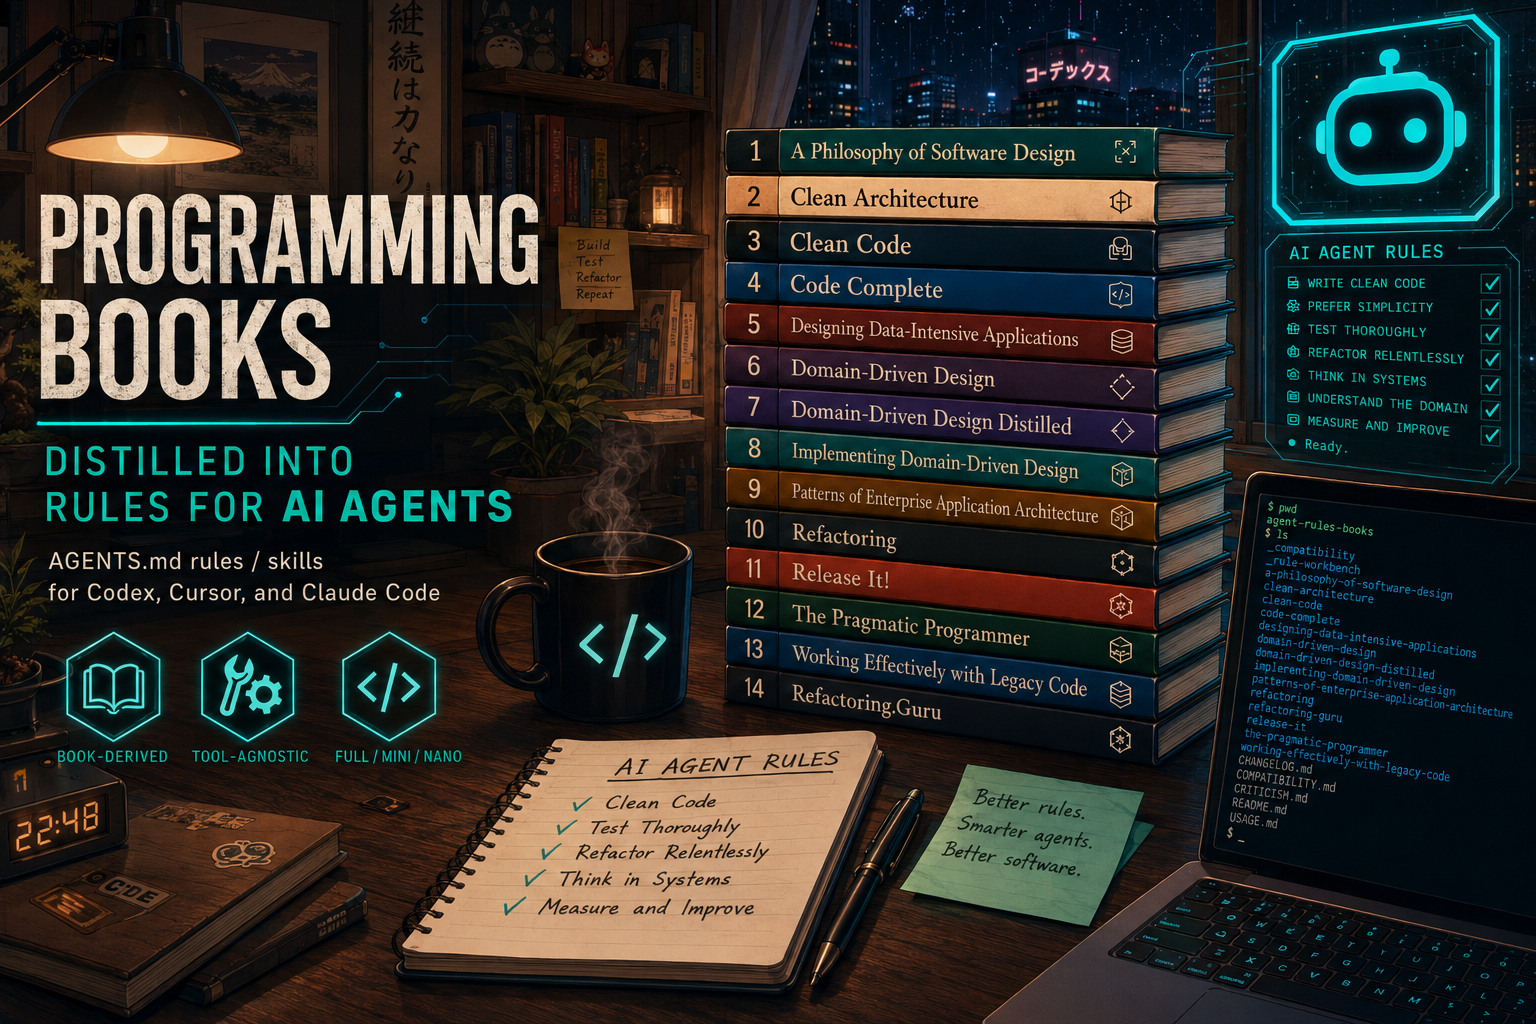
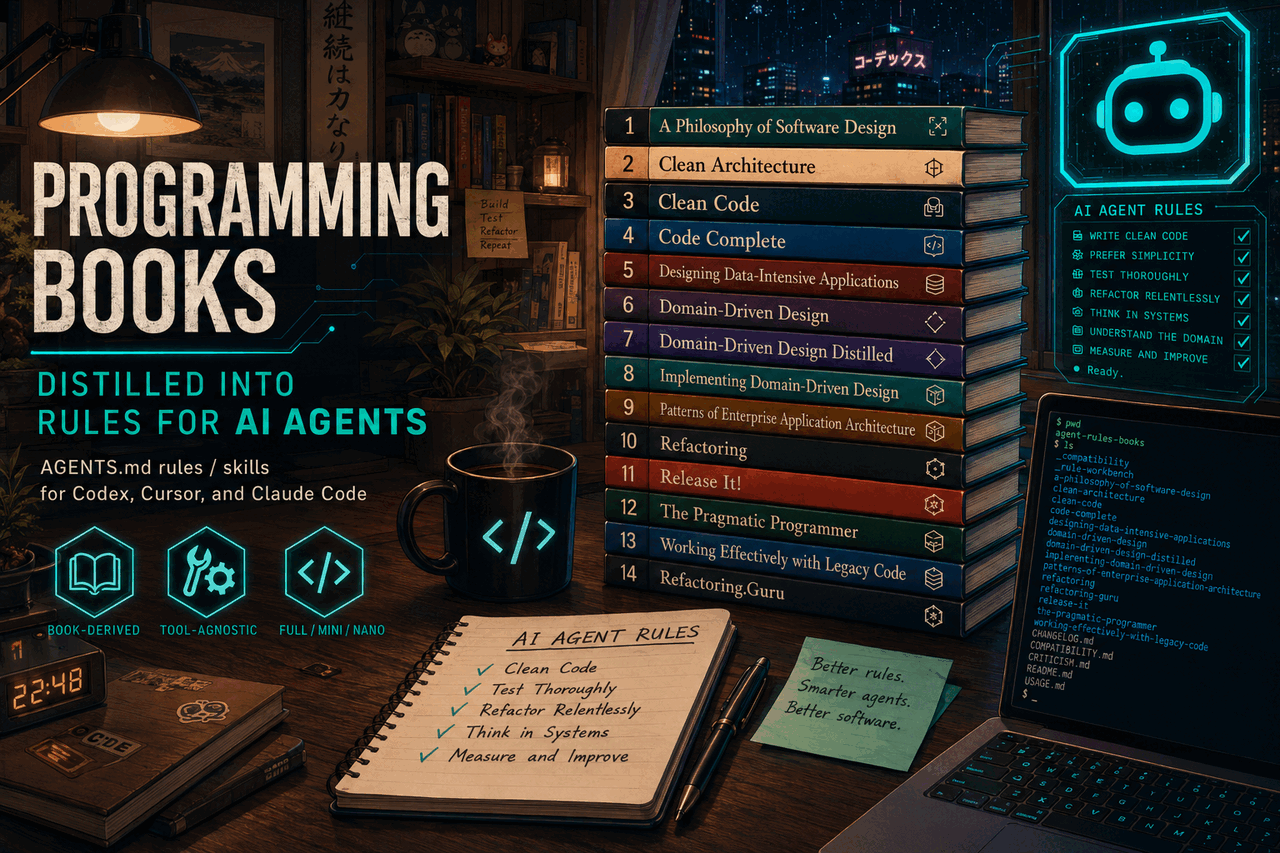
Polish documentation and site presentation

Changed region(s): [[0.6875, 0.061, 0.7188, 0.0914], [0.5312, 0.1219, 0.5625, 0.1524]]

diff --git a/docs/compatibility/index.html b/docs/compatibility/index.html
@@ -25,9 +25,9 @@
       </section>
       <section class="section">
         <div class="shell grid">
-          <article class="card"><h3><span class="verdict good">✓</span> Complementary</h3><p>Can be combined as equal active guidance without one book arbitrating the other. Count: <strong>78</strong>.</p></article>
-          <article class="card"><h3><span class="verdict overlap">↻</span> Overlap</h3><p>Choose one. They apply similar pressure or compete for the same decision layer. Count: <strong>11</strong>.</p></article>
-          <article class="card"><h3><span class="verdict conflict">×</span> Conflict</h3><p>Do not load together as equal active rule sets. Pick the one that matches the project model. Count: <strong>2</strong>.</p></article>
+          <article class="card"><h3><span class="verdict good" data-tooltip="complementary" aria-label="complementary">✓</span> Complementary</h3><p>Can be combined as equal active guidance without one book arbitrating the other. Count: <strong>78</strong>.</p></article>
+          <article class="card"><h3><span class="verdict overlap" data-tooltip="overlap" aria-label="overlap">↻</span> Overlap</h3><p>Choose one. They apply similar pressure or compete for the same decision layer. Count: <strong>11</strong>.</p></article>
+          <article class="card"><h3><span class="verdict conflict" data-tooltip="conflict" aria-label="conflict">×</span> Conflict</h3><p>Do not load together as equal active rule sets. Pick the one that matches the project model. Count: <strong>2</strong>.</p></article>
         </div>
       </section>
       <section class="section">
@@ -57,31 +57,47 @@
             </div>
           </div>
           <div class="legend-row" aria-label="Compatibility legend">
-            <span><span class="verdict good">✓</span> complementary</span>
-            <span><span class="verdict overlap">↻</span> overlap, choose one</span>
-            <span><span class="verdict conflict">×</span> conflict</span>
-            <span><span class="verdict na">N/A</span> same rule set</span>
+            <span><span class="verdict good" data-tooltip="complementary" aria-label="complementary">✓</span> complementary</span>
+            <span><span class="verdict overlap" data-tooltip="overlap" aria-label="overlap">↻</span> overlap, choose one</span>
+            <span><span class="verdict conflict" data-tooltip="conflict" aria-label="conflict">×</span> conflict</span>
+            <span><span class="verdict na" data-tooltip="same rule set" aria-label="same rule set">N/A</span> same rule set</span>
           </div>
           <div class="table-wrap matrix-wrap">
             <table class="matrix" aria-label="Book rule compatibility matrix">
               <thead>
-                <tr><th>Book</th><th>APoSD</th><th>CleanA</th><th>CleanC</th><th>CodeC</th><th>DDIA</th><th>DDD</th><th>DDD Dist</th><th>IDDD</th><th>PoEAA</th><th>Refactoring</th><th>Ref Guru</th><th>Release It</th><th>PragProg</th><th>WELC</th></tr>
+                <tr>
+                  <th>Book</th>
+                  <th data-tooltip="A Philosophy of Software Design">APoSD</th>
+                  <th data-tooltip="Clean Architecture">CleanA</th>
+                  <th data-tooltip="Clean Code">CleanC</th>
+                  <th data-tooltip="Code Complete">CodeC</th>
+                  <th data-tooltip="Designing Data-Intensive Applications">DDIA</th>
+                  <th data-tooltip="Domain-Driven Design">DDD</th>
+                  <th data-tooltip="Domain-Driven Design Distilled">DDD Dist</th>
+                  <th data-tooltip="Implementing Domain-Driven Design">IDDD</th>
+                  <th data-tooltip="Patterns of Enterprise Application Architecture">PoEAA</th>
+                  <th data-tooltip="Refactoring">Refactoring</th>
+                  <th data-tooltip="Refactoring.Guru">Ref Guru</th>
+                  <th data-tooltip="Release It!">Release It</th>
+                  <th data-tooltip="The Pragmatic Programmer">PragProg</th>
+                  <th data-tooltip="Working Effectively with Legacy Code">WELC</th>
+                </tr>
               </thead>
               <tbody>
-                <tr><td>APoSD</td><td><span class="verdict na">N/A</span></td><td><span class="verdict good">✓</span></td><td><span class="verdict overlap">↻</span></td><td><span class="verdict good">✓</span></td><td><span class="verdict good">✓</span></td><td><span class="verdict good">✓</span></td><td><span class="verdict good">✓</span></td><td><span class="verdict good">✓</span></td><td><span class="verdict good">✓</span></td><td><span class="verdict good">✓</span></td><td><span class="verdict good">✓</span></td><td><span class="verdict good">✓</span></td><td><span class="verdict good">✓</span></td><td><span class="verdict good">✓</span></td></tr>
-                <tr><td>CleanA</td><td><span class="verdict good">✓</span></td><td><span class="verdict na">N/A</span></td><td><span class="verdict good">✓</span></td><td><span class="verdict good">✓</span></td><td><span class="verdict good">✓</span></td><td><span class="verdict good">✓</span></td><td><span class="verdict good">✓</span></td><td><span class="verdict overlap">↻</span></td><td><span class="verdict overlap">↻</span></td><td><span class="verdict good">✓</span></td><td><span class="verdict good">✓</span></td><td><span class="verdict good">✓</span></td><td><span class="verdict good">✓</span></td><td><span class="verdict good">✓</span></td></tr>
-                <tr><td>CleanC</td><td><span class="verdict overlap">↻</span></td><td><span class="verdict good">✓</span></td><td><span class="verdict na">N/A</span></td><td><span class="verdict overlap">↻</span></td><td><span class="verdict good">✓</span></td><td><span class="verdict good">✓</span></td><td><span class="verdict good">✓</span></td><td><span class="verdict good">✓</span></td><td><span class="verdict good">✓</span></td><td><span class="verdict good">✓</span></td><td><span class="verdict good">✓</span></td><td><span class="verdict good">✓</span></td><td><span class="verdict overlap">↻</span></td><td><span class="verdict good">✓</span></td></tr>
-                <tr><td>CodeC</td><td><span class="verdict good">✓</span></td><td><span class="verdict good">✓</span></td><td><span class="verdict overlap">↻</span></td><td><span class="verdict na">N/A</span></td><td><span class="verdict good">✓</span></td><td><span class="verdict good">✓</span></td><td><span class="verdict good">✓</span></td><td><span class="verdict good">✓</span></td><td><span class="verdict good">✓</span></td><td><span class="verdict good">✓</span></td><td><span class="verdict good">✓</span></td><td><span class="verdict good">✓</span></td><td><span class="verdict overlap">↻</span></td><td><span class="verdict good">✓</span></td></tr>
-                <tr><td>DDIA</td><td><span class="verdict good">✓</span></td><td><span class="verdict good">✓</span></td><td><span class="verdict good">✓</span></td><td><span class="verdict good">✓</span></td><td><span class="verdict na">N/A</span></td><td><span class="verdict good">✓</span></td><td><span class="verdict good">✓</span></td><td><span class="verdict good">✓</span></td><td><span class="verdict good">✓</span></td><td><span class="verdict good">✓</span></td><td><span class="verdict good">✓</span></td><td><span class="verdict good">✓</span></td><td><span class="verdict good">✓</span></td><td><span class="verdict good">✓</span></td></tr>
-                <tr><td>DDD</td><td><span class="verdict good">✓</span></td><td><span class="verdict good">✓</span></td><td><span class="verdict good">✓</span></td><td><span class="verdict good">✓</span></td><td><span class="verdict good">✓</span></td><td><span class="verdict na">N/A</span></td><td><span class="verdict overlap">↻</span></td><td><span class="verdict overlap">↻</span></td><td><span class="verdict conflict">×</span></td><td><span class="verdict good">✓</span></td><td><span class="verdict good">✓</span></td><td><span class="verdict good">✓</span></td><td><span class="verdict good">✓</span></td><td><span class="verdict good">✓</span></td></tr>
-                <tr><td>DDD Dist</td><td><span class="verdict good">✓</span></td><td><span class="verdict good">✓</span></td><td><span class="verdict good">✓</span></td><td><span class="verdict good">✓</span></td><td><span class="verdict good">✓</span></td><td><span class="verdict overlap">↻</span></td><td><span class="verdict na">N/A</span></td><td><span class="verdict overlap">↻</span></td><td><span class="verdict overlap">↻</span></td><td><span class="verdict good">✓</span></td><td><span class="verdict good">✓</span></td><td><span class="verdict good">✓</span></td><td><span class="verdict good">✓</span></td><td><span class="verdict good">✓</span></td></tr>
-                <tr><td>IDDD</td><td><span class="verdict good">✓</span></td><td><span class="verdict overlap">↻</span></td><td><span class="verdict good">✓</span></td><td><span class="verdict good">✓</span></td><td><span class="verdict good">✓</span></td><td><span class="verdict overlap">↻</span></td><td><span class="verdict overlap">↻</span></td><td><span class="verdict na">N/A</span></td><td><span class="verdict conflict">×</span></td><td><span class="verdict good">✓</span></td><td><span class="verdict good">✓</span></td><td><span class="verdict good">✓</span></td><td><span class="verdict good">✓</span></td><td><span class="verdict good">✓</span></td></tr>
-                <tr><td>PoEAA</td><td><span class="verdict good">✓</span></td><td><span class="verdict overlap">↻</span></td><td><span class="verdict good">✓</span></td><td><span class="verdict good">✓</span></td><td><span class="verdict good">✓</span></td><td><span class="verdict conflict">×</span></td><td><span class="verdict overlap">↻</span></td><td><span class="verdict conflict">×</span></td><td><span class="verdict na">N/A</span></td><td><span class="verdict good">✓</span></td><td><span class="verdict good">✓</span></td><td><span class="verdict good">✓</span></td><td><span class="verdict good">✓</span></td><td><span class="verdict good">✓</span></td></tr>
-                <tr><td>Refactoring</td><td><span class="verdict good">✓</span></td><td><span class="verdict good">✓</span></td><td><span class="verdict good">✓</span></td><td><span class="verdict good">✓</span></td><td><span class="verdict good">✓</span></td><td><span class="verdict good">✓</span></td><td><span class="verdict good">✓</span></td><td><span class="verdict good">✓</span></td><td><span class="verdict good">✓</span></td><td><span class="verdict na">N/A</span></td><td><span class="verdict overlap">↻</span></td><td><span class="verdict good">✓</span></td><td><span class="verdict good">✓</span></td><td><span class="verdict good">✓</span></td></tr>
-                <tr><td>Ref Guru</td><td><span class="verdict good">✓</span></td><td><span class="verdict good">✓</span></td><td><span class="verdict good">✓</span></td><td><span class="verdict good">✓</span></td><td><span class="verdict good">✓</span></td><td><span class="verdict good">✓</span></td><td><span class="verdict good">✓</span></td><td><span class="verdict good">✓</span></td><td><span class="verdict good">✓</span></td><td><span class="verdict overlap">↻</span></td><td><span class="verdict na">N/A</span></td><td><span class="verdict good">✓</span></td><td><span class="verdict good">✓</span></td><td><span class="verdict good">✓</span></td></tr>
-                <tr><td>Release It</td><td><span class="verdict good">✓</span></td><td><span class="verdict good">✓</span></td><td><span class="verdict good">✓</span></td><td><span class="verdict good">✓</span></td><td><span class="verdict good">✓</span></td><td><span class="verdict good">✓</span></td><td><span class="verdict good">✓</span></td><td><span class="verdict good">✓</span></td><td><span class="verdict good">✓</span></td><td><span class="verdict good">✓</span></td><td><span class="verdict good">✓</span></td><td><span class="verdict na">N/A</span></td><td><span class="verdict good">✓</span></td><td><span class="verdict good">✓</span></td></tr>
-                <tr><td>PragProg</td><td><span class="verdict good">✓</span></td><td><span class="verdict good">✓</span></td><td><span class="verdict overlap">↻</span></td><td><span class="verdict overlap">↻</span></td><td><span class="verdict good">✓</span></td><td><span class="verdict good">✓</span></td><td><span class="verdict good">✓</span></td><td><span class="verdict good">✓</span></td><td><span class="verdict good">✓</span></td><td><span class="verdict good">✓</span></td><td><span class="verdict good">✓</span></td><td><span class="verdict good">✓</span></td><td><span class="verdict na">N/A</span></td><td><span class="verdict good">✓</span></td></tr>
-                <tr><td>WELC</td><td><span class="verdict good">✓</span></td><td><span class="verdict good">✓</span></td><td><span class="verdict good">✓</span></td><td><span class="verdict good">✓</span></td><td><span class="verdict good">✓</span></td><td><span class="verdict good">✓</span></td><td><span class="verdict good">✓</span></td><td><span class="verdict good">✓</span></td><td><span class="verdict good">✓</span></td><td><span class="verdict good">✓</span></td><td><span class="verdict good">✓</span></td><td><span class="verdict good">✓</span></td><td><span class="verdict good">✓</span></td><td><span class="verdict na">N/A</span></td></tr>
+                <tr><td data-tooltip="A Philosophy of Software Design">APoSD</td><td><span class="verdict na" data-tooltip="same rule set" aria-label="same rule set">N/A</span></td><td><span class="verdict good" data-tooltip="complementary" aria-label="complementary">✓</span></td><td><span class="verdict overlap" data-tooltip="overlap" aria-label="overlap">↻</span></td><td><span class="verdict good" data-tooltip="complementary" aria-label="complementary">✓</span></td><td><span class="verdict good" data-tooltip="complementary" aria-label="complementary">✓</span></td><td><span class="verdict good" data-tooltip="complementary" aria-label="complementary">✓</span></td><td><span class="verdict good" data-tooltip="complementary" aria-label="complementary">✓</span></td><td><span class="verdict good" data-tooltip="complementary" aria-label="complementary">✓</span></td><td><span class="verdict good" data-tooltip="complementary" aria-label="complementary">✓</span></td><td><span class="verdict good" data-tooltip="complementary" aria-label="complementary">✓</span></td><td><span class="verdict good" data-tooltip="complementary" aria-label="complementary">✓</span></td><td><span class="verdict good" data-tooltip="complementary" aria-label="complementary">✓</span></td><td><span class="verdict good" data-tooltip="complementary" aria-label="complementary">✓</span></td><td><span class="verdict good" data-tooltip="complementary" aria-label="complementary">✓</span></td></tr>
+                <tr><td data-tooltip="Clean Architecture">CleanA</td><td><span class="verdict good" data-tooltip="complementary" aria-label="complementary">✓</span></td><td><span class="verdict na" data-tooltip="same rule set" aria-label="same rule set">N/A</span></td><td><span class="verdict good" data-tooltip="complementary" aria-label="complementary">✓</span></td><td><span class="verdict good" data-tooltip="complementary" aria-label="complementary">✓</span></td><td><span class="verdict good" data-tooltip="complementary" aria-label="complementary">✓</span></td><td><span class="verdict good" data-tooltip="complementary" aria-label="complementary">✓</span></td><td><span class="verdict good" data-tooltip="complementary" aria-label="complementary">✓</span></td><td><span class="verdict overlap" data-tooltip="overlap" aria-label="overlap">↻</span></td><td><span class="verdict overlap" data-tooltip="overlap" aria-label="overlap">↻</span></td><td><span class="verdict good" data-tooltip="complementary" aria-label="complementary">✓</span></td><td><span class="verdict good" data-tooltip="complementary" aria-label="complementary">✓</span></td><td><span class="verdict good" data-tooltip="complementary" aria-label="complementary">✓</span></td><td><span class="verdict good" data-tooltip="complementary" aria-label="complementary">✓</span></td><td><span class="verdict good" data-tooltip="complementary" aria-label="complementary">✓</span></td></tr>
+                <tr><td data-tooltip="Clean Code">CleanC</td><td><span class="verdict overlap" data-tooltip="overlap" aria-label="overlap">↻</span></td><td><span class="verdict good" data-tooltip="complementary" aria-label="complementary">✓</span></td><td><span class="verdict na" data-tooltip="same rule set" aria-label="same rule set">N/A</span></td><td><span class="verdict overlap" data-tooltip="overlap" aria-label="overlap">↻</span></td><td><span class="verdict good" data-tooltip="complementary" aria-label="complementary">✓</span></td><td><span class="verdict good" data-tooltip="complementary" aria-label="complementary">✓</span></td><td><span class="verdict good" data-tooltip="complementary" aria-label="complementary">✓</span></td><td><span class="verdict good" data-tooltip="complementary" aria-label="complementary">✓</span></td><td><span class="verdict good" data-tooltip="complementary" aria-label="complementary">✓</span></td><td><span class="verdict good" data-tooltip="complementary" aria-label="complementary">✓</span></td><td><span class="verdict good" data-tooltip="complementary" aria-label="complementary">✓</span></td><td><span class="verdict good" data-tooltip="complementary" aria-label="complementary">✓</span></td><td><span class="verdict overlap" data-tooltip="overlap" aria-label="overlap">↻</span></td><td><span class="verdict good" data-tooltip="complementary" aria-label="complementary">✓</span></td></tr>
+                <tr><td data-tooltip="Code Complete">CodeC</td><td><span class="verdict good" data-tooltip="complementary" aria-label="complementary">✓</span></td><td><span class="verdict good" data-tooltip="complementary" aria-label="complementary">✓</span></td><td><span class="verdict overlap" data-tooltip="overlap" aria-label="overlap">↻</span></td><td><span class="verdict na" data-tooltip="same rule set" aria-label="same rule set">N/A</span></td><td><span class="verdict good" data-tooltip="complementary" aria-label="complementary">✓</span></td><td><span class="verdict good" data-tooltip="complementary" aria-label="complementary">✓</span></td><td><span class="verdict good" data-tooltip="complementary" aria-label="complementary">✓</span></td><td><span class="verdict good" data-tooltip="complementary" aria-label="complementary">✓</span></td><td><span class="verdict good" data-tooltip="complementary" aria-label="complementary">✓</span></td><td><span class="verdict good" data-tooltip="complementary" aria-label="complementary">✓</span></td><td><span class="verdict good" data-tooltip="complementary" aria-label="complementary">✓</span></td><td><span class="verdict good" data-tooltip="complementary" aria-label="complementary">✓</span></td><td><span class="verdict overlap" data-tooltip="overlap" aria-label="overlap">↻</span></td><td><span class="verdict good" data-tooltip="complementary" aria-label="complementary">✓</span></td></tr>
+                <tr><td data-tooltip="Designing Data-Intensive Applications">DDIA</td><td><span class="verdict good" data-tooltip="complementary" aria-label="complementary">✓</span></td><td><span class="verdict good" data-tooltip="complementary" aria-label="complementary">✓</span></td><td><span class="verdict good" data-tooltip="complementary" aria-label="complementary">✓</span></td><td><span class="verdict good" data-tooltip="complementary" aria-label="complementary">✓</span></td><td><span class="verdict na" data-tooltip="same rule set" aria-label="same rule set">N/A</span></td><td><span class="verdict good" data-tooltip="complementary" aria-label="complementary">✓</span></td><td><span class="verdict good" data-tooltip="complementary" aria-label="complementary">✓</span></td><td><span class="verdict good" data-tooltip="complementary" aria-label="complementary">✓</span></td><td><span class="verdict good" data-tooltip="complementary" aria-label="complementary">✓</span></td><td><span class="verdict good" data-tooltip="complementary" aria-label="complementary">✓</span></td><td><span class="verdict good" data-tooltip="complementary" aria-label="complementary">✓</span></td><td><span class="verdict good" data-tooltip="complementary" aria-label="complementary">✓</span></td><td><span class="verdict good" data-tooltip="complementary" aria-label="complementary">✓</span></td><td><span class="verdict good" data-tooltip="complementary" aria-label="complementary">✓</span></td></tr>
+                <tr><td data-tooltip="Domain-Driven Design">DDD</td><td><span class="verdict good" data-tooltip="complementary" aria-label="complementary">✓</span></td><td><span class="verdict good" data-tooltip="complementary" aria-label="complementary">✓</span></td><td><span class="verdict good" data-tooltip="complementary" aria-label="complementary">✓</span></td><td><span class="verdict good" data-tooltip="complementary" aria-label="complementary">✓</span></td><td><span class="verdict good" data-tooltip="complementary" aria-label="complementary">✓</span></td><td><span class="verdict na" data-tooltip="same rule set" aria-label="same rule set">N/A</span></td><td><span class="verdict overlap" data-tooltip="overlap" aria-label="overlap">↻</span></td><td><span class="verdict overlap" data-tooltip="overlap" aria-label="overlap">↻</span></td><td><span class="verdict conflict" data-tooltip="conflict" aria-label="conflict">×</span></td><td><span class="verdict good" data-tooltip="complementary" aria-label="complementary">✓</span></td><td><span class="verdict good" data-tooltip="complementary" aria-label="complementary">✓</span></td><td><span class="verdict good" data-tooltip="complementary" aria-label="complementary">✓</span></td><td><span class="verdict good" data-tooltip="complementary" aria-label="complementary">✓</span></td><td><span class="verdict good" data-tooltip="complementary" aria-label="complementary">✓</span></td></tr>
+                <tr><td data-tooltip="Domain-Driven Design Distilled">DDD Dist</td><td><span class="verdict good" data-tooltip="complementary" aria-label="complementary">✓</span></td><td><span class="verdict good" data-tooltip="complementary" aria-label="complementary">✓</span></td><td><span class="verdict good" data-tooltip="complementary" aria-label="complementary">✓</span></td><td><span class="verdict good" data-tooltip="complementary" aria-label="complementary">✓</span></td><td><span class="verdict good" data-tooltip="complementary" aria-label="complementary">✓</span></td><td><span class="verdict overlap" data-tooltip="overlap" aria-label="overlap">↻</span></td><td><span class="verdict na" data-tooltip="same rule set" aria-label="same rule set">N/A</span></td><td><span class="verdict overlap" data-tooltip="overlap" aria-label="overlap">↻</span></td><td><span class="verdict overlap" data-tooltip="overlap" aria-label="overlap">↻</span></td><td><span class="verdict good" data-tooltip="complementary" aria-label="complementary">✓</span></td><td><span class="verdict good" data-tooltip="complementary" aria-label="complementary">✓</span></td><td><span class="verdict good" data-tooltip="complementary" aria-label="complementary">✓</span></td><td><span class="verdict good" data-tooltip="complementary" aria-label="complementary">✓</span></td><td><span class="verdict good" data-tooltip="complementary" aria-label="complementary">✓</span></td></tr>
+                <tr><td data-tooltip="Implementing Domain-Driven Design">IDDD</td><td><span class="verdict good" data-tooltip="complementary" aria-label="complementary">✓</span></td><td><span class="verdict overlap" data-tooltip="overlap" aria-label="overlap">↻</span></td><td><span class="verdict good" data-tooltip="complementary" aria-label="complementary">✓</span></td><td><span class="verdict good" data-tooltip="complementary" aria-label="complementary">✓</span></td><td><span class="verdict good" data-tooltip="complementary" aria-label="complementary">✓</span></td><td><span class="verdict overlap" data-tooltip="overlap" aria-label="overlap">↻</span></td><td><span class="verdict overlap" data-tooltip="overlap" aria-label="overlap">↻</span></td><td><span class="verdict na" data-tooltip="same rule set" aria-label="same rule set">N/A</span></td><td><span class="verdict conflict" data-tooltip="conflict" aria-label="conflict">×</span></td><td><span class="verdict good" data-tooltip="complementary" aria-label="complementary">✓</span></td><td><span class="verdict good" data-tooltip="complementary" aria-label="complementary">✓</span></td><td><span class="verdict good" data-tooltip="complementary" aria-label="complementary">✓</span></td><td><span class="verdict good" data-tooltip="complementary" aria-label="complementary">✓</span></td><td><span class="verdict good" data-tooltip="complementary" aria-label="complementary">✓</span></td></tr>
+                <tr><td data-tooltip="Patterns of Enterprise Application Architecture">PoEAA</td><td><span class="verdict good" data-tooltip="complementary" aria-label="complementary">✓</span></td><td><span class="verdict overlap" data-tooltip="overlap" aria-label="overlap">↻</span></td><td><span class="verdict good" data-tooltip="complementary" aria-label="complementary">✓</span></td><td><span class="verdict good" data-tooltip="complementary" aria-label="complementary">✓</span></td><td><span class="verdict good" data-tooltip="complementary" aria-label="complementary">✓</span></td><td><span class="verdict conflict" data-tooltip="conflict" aria-label="conflict">×</span></td><td><span class="verdict overlap" data-tooltip="overlap" aria-label="overlap">↻</span></td><td><span class="verdict conflict" data-tooltip="conflict" aria-label="conflict">×</span></td><td><span class="verdict na" data-tooltip="same rule set" aria-label="same rule set">N/A</span></td><td><span class="verdict good" data-tooltip="complementary" aria-label="complementary">✓</span></td><td><span class="verdict good" data-tooltip="complementary" aria-label="complementary">✓</span></td><td><span class="verdict good" data-tooltip="complementary" aria-label="complementary">✓</span></td><td><span class="verdict good" data-tooltip="complementary" aria-label="complementary">✓</span></td><td><span class="verdict good" data-tooltip="complementary" aria-label="complementary">✓</span></td></tr>
+                <tr><td data-tooltip="Refactoring">Refactoring</td><td><span class="verdict good" data-tooltip="complementary" aria-label="complementary">✓</span></td><td><span class="verdict good" data-tooltip="complementary" aria-label="complementary">✓</span></td><td><span class="verdict good" data-tooltip="complementary" aria-label="complementary">✓</span></td><td><span class="verdict good" data-tooltip="complementary" aria-label="complementary">✓</span></td><td><span class="verdict good" data-tooltip="complementary" aria-label="complementary">✓</span></td><td><span class="verdict good" data-tooltip="complementary" aria-label="complementary">✓</span></td><td><span class="verdict good" data-tooltip="complementary" aria-label="complementary">✓</span></td><td><span class="verdict good" data-tooltip="complementary" aria-label="complementary">✓</span></td><td><span class="verdict good" data-tooltip="complementary" aria-label="complementary">✓</span></td><td><span class="verdict na" data-tooltip="same rule set" aria-label="same rule set">N/A</span></td><td><span class="verdict overlap" data-tooltip="overlap" aria-label="overlap">↻</span></td><td><span class="verdict good" data-tooltip="complementary" aria-label="complementary">✓</span></td><td><span class="verdict good" data-tooltip="complementary" aria-label="complementary">✓</span></td><td><span class="verdict good" data-tooltip="complementary" aria-label="complementary">✓</span></td></tr>
+                <tr><td data-tooltip="Refactoring.Guru">Ref Guru</td><td><span class="verdict good" data-tooltip="complementary" aria-label="complementary">✓</span></td><td><span class="verdict good" data-tooltip="complementary" aria-label="complementary">✓</span></td><td><span class="verdict good" data-tooltip="complementary" aria-label="complementary">✓</span></td><td><span class="verdict good" data-tooltip="complementary" aria-label="complementary">✓</span></td><td><span class="verdict good" data-tooltip="complementary" aria-label="complementary">✓</span></td><td><span class="verdict good" data-tooltip="complementary" aria-label="complementary">✓</span></td><td><span class="verdict good" data-tooltip="complementary" aria-label="complementary">✓</span></td><td><span class="verdict good" data-tooltip="complementary" aria-label="complementary">✓</span></td><td><span class="verdict good" data-tooltip="complementary" aria-label="complementary">✓</span></td><td><span class="verdict overlap" data-tooltip="overlap" aria-label="overlap">↻</span></td><td><span class="verdict na" data-tooltip="same rule set" aria-label="same rule set">N/A</span></td><td><span class="verdict good" data-tooltip="complementary" aria-label="complementary">✓</span></td><td><span class="verdict good" data-tooltip="complementary" aria-label="complementary">✓</span></td><td><span class="verdict good" data-tooltip="complementary" aria-label="complementary">✓</span></td></tr>
+                <tr><td data-tooltip="Release It!">Release It</td><td><span class="verdict good" data-tooltip="complementary" aria-label="complementary">✓</span></td><td><span class="verdict good" data-tooltip="complementary" aria-label="complementary">✓</span></td><td><span class="verdict good" data-tooltip="complementary" aria-label="complementary">✓</span></td><td><span class="verdict good" data-tooltip="complementary" aria-label="complementary">✓</span></td><td><span class="verdict good" data-tooltip="complementary" aria-label="complementary">✓</span></td><td><span class="verdict good" data-tooltip="complementary" aria-label="complementary">✓</span></td><td><span class="verdict good" data-tooltip="complementary" aria-label="complementary">✓</span></td><td><span class="verdict good" data-tooltip="complementary" aria-label="complementary">✓</span></td><td><span class="verdict good" data-tooltip="complementary" aria-label="complementary">✓</span></td><td><span class="verdict good" data-tooltip="complementary" aria-label="complementary">✓</span></td><td><span class="verdict good" data-tooltip="complementary" aria-label="complementary">✓</span></td><td><span class="verdict na" data-tooltip="same rule set" aria-label="same rule set">N/A</span></td><td><span class="verdict good" data-tooltip="complementary" aria-label="complementary">✓</span></td><td><span class="verdict good" data-tooltip="complementary" aria-label="complementary">✓</span></td></tr>
+                <tr><td data-tooltip="The Pragmatic Programmer">PragProg</td><td><span class="verdict good" data-tooltip="complementary" aria-label="complementary">✓</span></td><td><span class="verdict good" data-tooltip="complementary" aria-label="complementary">✓</span></td><td><span class="verdict overlap" data-tooltip="overlap" aria-label="overlap">↻</span></td><td><span class="verdict overlap" data-tooltip="overlap" aria-label="overlap">↻</span></td><td><span class="verdict good" data-tooltip="complementary" aria-label="complementary">✓</span></td><td><span class="verdict good" data-tooltip="complementary" aria-label="complementary">✓</span></td><td><span class="verdict good" data-tooltip="complementary" aria-label="complementary">✓</span></td><td><span class="verdict good" data-tooltip="complementary" aria-label="complementary">✓</span></td><td><span class="verdict good" data-tooltip="complementary" aria-label="complementary">✓</span></td><td><span class="verdict good" data-tooltip="complementary" aria-label="complementary">✓</span></td><td><span class="verdict good" data-tooltip="complementary" aria-label="complementary">✓</span></td><td><span class="verdict good" data-tooltip="complementary" aria-label="complementary">✓</span></td><td><span class="verdict na" data-tooltip="same rule set" aria-label="same rule set">N/A</span></td><td><span class="verdict good" data-tooltip="complementary" aria-label="complementary">✓</span></td></tr>
+                <tr><td data-tooltip="Working Effectively with Legacy Code">WELC</td><td><span class="verdict good" data-tooltip="complementary" aria-label="complementary">✓</span></td><td><span class="verdict good" data-tooltip="complementary" aria-label="complementary">✓</span></td><td><span class="verdict good" data-tooltip="complementary" aria-label="complementary">✓</span></td><td><span class="verdict good" data-tooltip="complementary" aria-label="complementary">✓</span></td><td><span class="verdict good" data-tooltip="complementary" aria-label="complementary">✓</span></td><td><span class="verdict good" data-tooltip="complementary" aria-label="complementary">✓</span></td><td><span class="verdict good" data-tooltip="complementary" aria-label="complementary">✓</span></td><td><span class="verdict good" data-tooltip="complementary" aria-label="complementary">✓</span></td><td><span class="verdict good" data-tooltip="complementary" aria-label="complementary">✓</span></td><td><span class="verdict good" data-tooltip="complementary" aria-label="complementary">✓</span></td><td><span class="verdict good" data-tooltip="complementary" aria-label="complementary">✓</span></td><td><span class="verdict good" data-tooltip="complementary" aria-label="complementary">✓</span></td><td><span class="verdict good" data-tooltip="complementary" aria-label="complementary">✓</span></td><td><span class="verdict na" data-tooltip="same rule set" aria-label="same rule set">N/A</span></td></tr>
               </tbody>
             </table>
           </div>

diff --git a/docs/assets/styles.css b/docs/assets/styles.css
@@ -425,11 +425,61 @@ code {
   gap: 7px;
 }
 
+[data-tooltip] {
+  cursor: help;
+}
+
+.verdict[data-tooltip] {
+  position: relative;
+}
+
+[data-tooltip]::after {
+  content: attr(data-tooltip);
+  position: absolute;
+  top: calc(100% + 7px);
+  left: 50%;
+  z-index: 80;
+  width: max-content;
+  max-width: min(260px, 70vw);
+  padding: 6px 8px;
+  border: 1px solid var(--line);
+  border-radius: 6px;
+  background: var(--code);
+  box-shadow: 0 12px 30px rgba(0, 0, 0, .34);
+  color: var(--text);
+  font-size: 12px;
+  font-weight: 650;
+  line-height: 1.3;
+  text-align: left;
+  text-transform: none;
+  white-space: normal;
+  transform: translateX(-50%);
+  opacity: 0;
+  visibility: hidden;
+  pointer-events: none;
+}
+
+[data-tooltip]:hover::after,
+[data-tooltip]:focus-visible::after {
+  opacity: 1;
+  visibility: visible;
+}
+
+.matrix th[data-tooltip]::after,
+.matrix td:first-child[data-tooltip]::after {
+  left: 0;
+  transform: none;
+}
+
 .split {
   display: grid;
   grid-template-columns: minmax(0, .8fr) minmax(0, 1.2fr);
   gap: 24px;
   align-items: start;
+}
+
+.usage-layout {
+  grid-template-columns: minmax(168px, 208px) minmax(0, 1fr);
 }
 
 .toc {

diff --git a/docs/usage/index.html b/docs/usage/index.html
@@ -24,7 +24,7 @@
         </div>
       </section>
       <section class="section">
-        <div class="shell split">
+        <div class="shell split usage-layout">
           <aside class="toc card">
             <a href="#versions">Versions</a>
             <a href="#skills">Skills</a>
@@ -84,6 +84,7 @@
     skills/
       legacy-change/
         SKILL.md</code></pre>
+              <p>Import the shared root <code>AGENTS.md</code> baseline by adding this line to <code>CLAUDE.md</code> in order to reuse the same project-wide rules in Claude Code.</p>
               <pre><code>@AGENTS.md</code></pre>
             </article>
             <article class="card" id="cursor">

diff --git a/docs/index.html b/docs/index.html
@@ -118,7 +118,7 @@ open domain-driven-design/domain-driven-design.md</code></pre>
           </div>
           <div class="image-frame showcase">
             <a href="https://github.com/ciembor/agent-rules-books/blob/main/books-ai-rules.png">
-              <img src="assets/books-ai-rules.png" width="1536" height="1024" loading="lazy" decoding="async" alt="AI agent rules from programming books repository preview">
+              <img src="assets/books-ai-rules.png" width="1280" height="853" loading="lazy" decoding="async" alt="AI agent rules from programming books repository preview">
             </a>
           </div>
         </div>

diff --git a/README.md b/README.md
@@ -1,15 +1,29 @@
+<div align="center">
+  <img src="books-ai-rules.png" alt="AI agent rules from programming books" width="800" />
+  <h1 align="center">AI AGENTS Rules from Programming Books v0.5</h1>
 
-# 📚 AI AGENTS Rules from Programming Books <a href="CHANGELOG.md"><img align="right" src="https://img.shields.io/badge/version-v0.5-blue?style=for-the-badge" alt="Version v0.5" height="48"></a>
+  <p align="center">
+    AGENTS.md rules / skills for Codex, Cursor, Claude Code, distilled from classic software engineering books about refactoring, architecture, DDD and code quality.
+    <br />
+    <a href="#about">About</a>
+    ·
+    <a href="#release-matrix">Release Matrix</a>
+    ·
+    <a href="USAGE.md">Usage</a>
+    ·
+    <a href="COMPATIBILITY.md">Books Compatibility</a>
+    ·
+    <a href="#books-list">Books List</a>
+  </p>
+</div>
 
-### AGENTS.md rules / skills for Codex, Cursor, Claude Code, distilled from classic software engineering books about refactoring, architecture, DDD and code quality.
+## About
 
-![AGENTS Book Rules](books-ai-rules.png)
+This repository contains ready-to-use rule sets inspired by well-known books on software design, architecture, refactoring, legacy code, reliability, and data-intensive systems.
 
 MIT licensed universal project rules for coding agents.
 
 Website: [ciembor.github.io/agent-rules-books](https://ciembor.github.io/agent-rules-books/)
-
-This repository contains ready-to-use rule sets inspired by well-known books on software design, architecture, refactoring, legacy code, reliability, and data-intensive systems.
 
 For editor-specific setup in Codex, Claude Code, and Cursor, see [USAGE.md](USAGE.md). It covers always-on vs on-demand usage, skills, scoped rules, MCP or RAG patterns, and the preferred setup for each editor.
 
@@ -48,7 +62,7 @@ Metrics:
 | [Working Effectively with Legacy Code](working-effectively-with-legacy-code/) | [full](working-effectively-with-legacy-code/working-effectively-with-legacy-code.md) | 371 | 193 | 13817 B | [mini](working-effectively-with-legacy-code/working-effectively-with-legacy-code.mini.md) | 50 | 32 | 5707 B | [nano](working-effectively-with-legacy-code/working-effectively-with-legacy-code.nano.md) | 35 | 17 | 1792 B |
 | [Refactoring.Guru](refactoring-guru/) | [full](refactoring-guru/refactoring-guru.md) | 765 | 478 | 62561 B | [mini](refactoring-guru/refactoring-guru.mini.md) | 64 | 46 | 6287 B | [nano](refactoring-guru/refactoring-guru.nano.md) | 41 | 23 | 2593 B |
 
-## Books
+## Books List
 
 ### [A Philosophy of Software Design](https://www.goodreads.com/book/show/39996759-a-philosophy-of-software-design)
 

diff --git a/USAGE.md b/USAGE.md
@@ -200,6 +200,8 @@ project/
 
 Example `CLAUDE.md`:
 
+Import the shared root `AGENTS.md` baseline by adding this line to `CLAUDE.md` in order to reuse the same project-wide rules in Claude Code.
+
 ```md
 @AGENTS.md
 